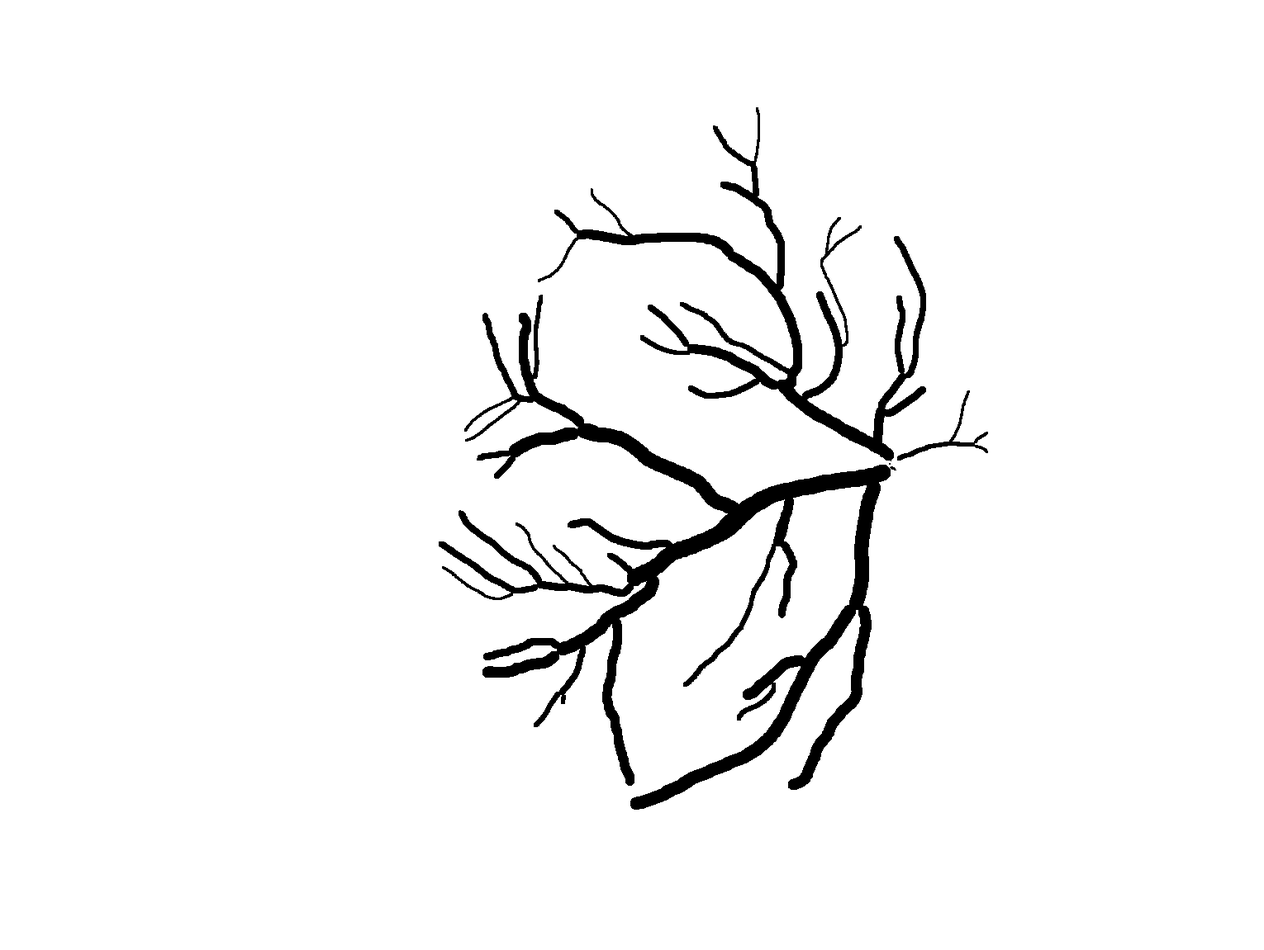
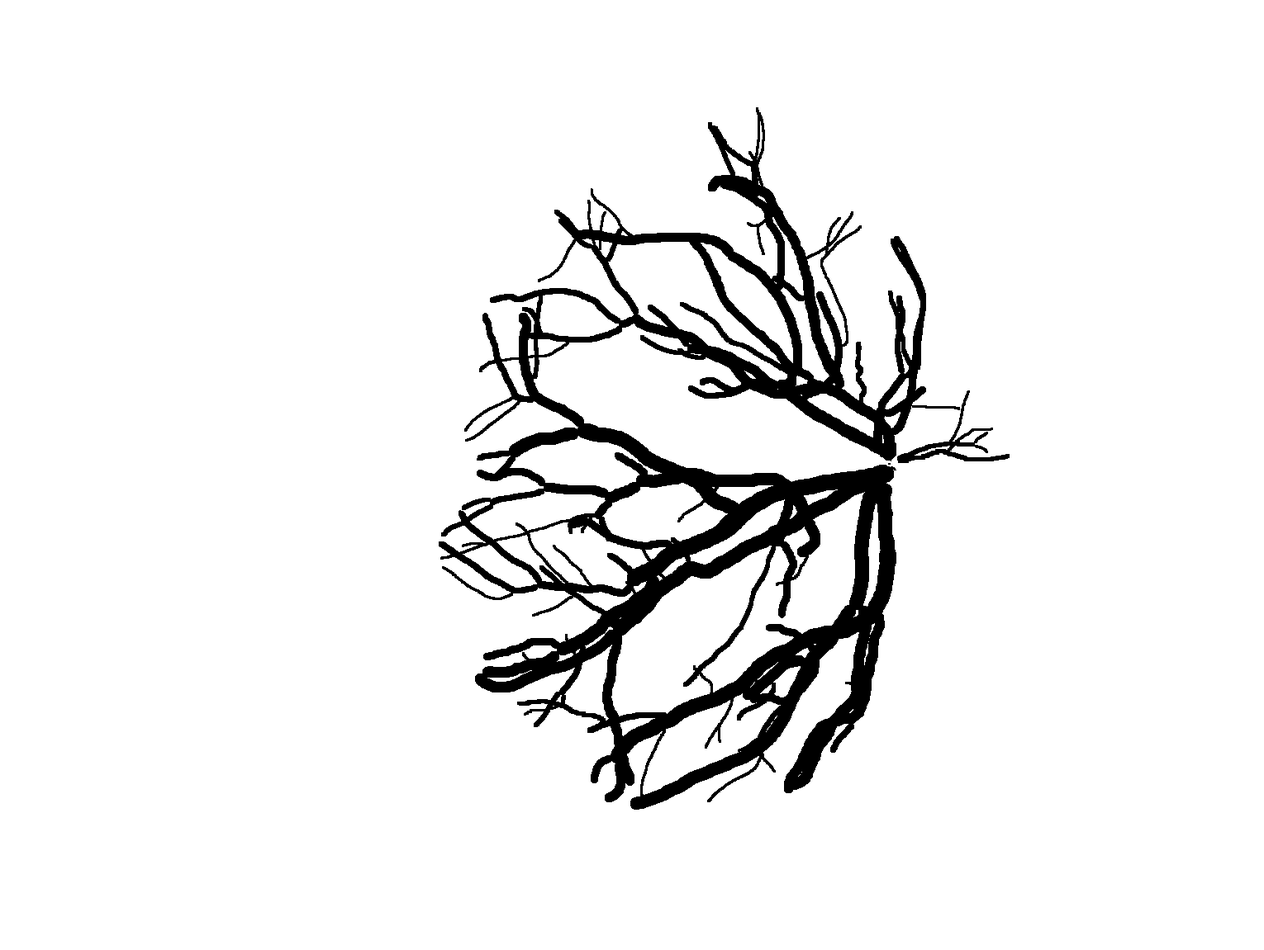
fixed trace for a sample and reran net completion demo

diff --git a/output/network_completion_3.html b/output/network_completion_3.html
@@ -5,7 +5,7 @@
 p, li { white-space: pre-wrap; }
 </style></head><body style=" font-family:'Monospace'; font-size:9pt; font-weight:400; font-style:normal;">
 <p style="-qt-paragraph-type:empty; margin-top:0px; margin-bottom:0px; margin-left:0px; margin-right:0px; -qt-block-indent:0; text-indent:0px;"><br /></p>
-<p style=" margin-top:0px; margin-bottom:0px; margin-left:0px; margin-right:0px; -qt-block-indent:0; text-indent:0px;"><span style=" color:#000080;">In [</span><span style=" font-weight:600; color:#000080;">13</span><span style=" color:#000080;">]:</span> run network_completion.py</p>
+<p style=" margin-top:0px; margin-bottom:0px; margin-left:0px; margin-right:0px; -qt-block-indent:0; text-indent:0px;"><span style=" color:#000080;">In [</span><span style=" font-weight:600; color:#000080;">25</span><span style=" color:#000080;">]:</span> run network_completion.py</p>
 <p style=" margin-top:0px; margin-bottom:0px; margin-left:0px; margin-right:0px; -qt-block-indent:0; text-indent:0px;">/usr/lib/python3.7/site-packages/numpy/core/fromnumeric.py:2920: RuntimeWarning: Mean of empty slice.</p>
 <p style=" margin-top:0px; margin-bottom:0px; margin-left:0px; margin-right:0px; -qt-block-indent:0; text-indent:0px;">  out=out, **kwargs)</p>
 <p style=" margin-top:0px; margin-bottom:0px; margin-left:0px; margin-right:0px; -qt-block-indent:0; text-indent:0px;">/usr/lib/python3.7/site-packages/numpy/core/_methods.py:85: RuntimeWarning: invalid value encountered in double_scalars</p>
@@ -15,156 +15,156 @@ p, li { white-space: pre-wrap; }
 <p style=" margin-top:0px; margin-bottom:0px; margin-left:0px; margin-right:0px; -qt-block-indent:0; text-indent:0px;">removed 1.07096e+06 pairs of endpoints from consideration (out of 1.10930e+06 possible pairs)</p>
 <p style=" margin-top:0px; margin-bottom:0px; margin-left:0px; margin-right:0px; -qt-block-indent:0; text-indent:0px;">removed 36846 more pairs by avoiding crossings/zero score paths</p>
 <p style="-qt-paragraph-type:empty; margin-top:0px; margin-bottom:0px; margin-left:0px; margin-right:0px; -qt-block-indent:0; text-indent:0px;"><br /></p>
-<p style=" margin-top:0px; margin-bottom:0px; margin-left:0px; margin-right:0px; -qt-block-indent:0; text-indent:0px;"><img src="network_completion_3_files/qt_img4730575764062213.png"></p>
+<p style=" margin-top:0px; margin-bottom:0px; margin-left:0px; margin-right:0px; -qt-block-indent:0; text-indent:0px;"><img src="network_completion_3_files/qt_img6106949573672965.png"></p>
 <p style=" margin-top:0px; margin-bottom:0px; margin-left:0px; margin-right:0px; -qt-block-indent:0; text-indent:0px;">there are 1362 endpoints</p>
 <p style=" margin-top:0px; margin-bottom:0px; margin-left:0px; margin-right:0px; -qt-block-indent:0; text-indent:0px;">checking compatibility of endpoints by labels and calculating distances</p>
 <p style=" margin-top:0px; margin-bottom:0px; margin-left:0px; margin-right:0px; -qt-block-indent:0; text-indent:0px;">removed 888401 pairs of endpoints from consideration (out of 926841 possible pairs)</p>
 <p style=" margin-top:0px; margin-bottom:0px; margin-left:0px; margin-right:0px; -qt-block-indent:0; text-indent:0px;">removed 36975 more pairs by avoiding crossings/zero score paths</p>
 <p style="-qt-paragraph-type:empty; margin-top:0px; margin-bottom:0px; margin-left:0px; margin-right:0px; -qt-block-indent:0; text-indent:0px;"><br /></p>
-<p style=" margin-top:0px; margin-bottom:0px; margin-left:0px; margin-right:0px; -qt-block-indent:0; text-indent:0px;"><img src="network_completion_3_files/qt_img4732937996075013.png"></p>
+<p style=" margin-top:0px; margin-bottom:0px; margin-left:0px; margin-right:0px; -qt-block-indent:0; text-indent:0px;"><img src="network_completion_3_files/qt_img6109350460391429.png"></p>
 <p style=" margin-top:0px; margin-bottom:0px; margin-left:0px; margin-right:0px; -qt-block-indent:0; text-indent:0px;">there are 811 endpoints</p>
 <p style=" margin-top:0px; margin-bottom:0px; margin-left:0px; margin-right:0px; -qt-block-indent:0; text-indent:0px;">checking compatibility of endpoints by labels and calculating distances</p>
 <p style=" margin-top:0px; margin-bottom:0px; margin-left:0px; margin-right:0px; -qt-block-indent:0; text-indent:0px;">removed 310753 pairs of endpoints from consideration (out of 328455 possible pairs)</p>
 <p style=" margin-top:0px; margin-bottom:0px; margin-left:0px; margin-right:0px; -qt-block-indent:0; text-indent:0px;">removed 16886 more pairs by avoiding crossings/zero score paths</p>
 <p style="-qt-paragraph-type:empty; margin-top:0px; margin-bottom:0px; margin-left:0px; margin-right:0px; -qt-block-indent:0; text-indent:0px;"><br /></p>
-<p style=" margin-top:0px; margin-bottom:0px; margin-left:0px; margin-right:0px; -qt-block-indent:0; text-indent:0px;"><img src="network_completion_3_files/qt_img4738521453559813.png"></p>
+<p style=" margin-top:0px; margin-bottom:0px; margin-left:0px; margin-right:0px; -qt-block-indent:0; text-indent:0px;"><img src="network_completion_3_files/qt_img6120010569220101.png"></p>
 <p style=" margin-top:0px; margin-bottom:0px; margin-left:0px; margin-right:0px; -qt-block-indent:0; text-indent:0px;">there are 75 endpoints</p>
 <p style=" margin-top:0px; margin-bottom:0px; margin-left:0px; margin-right:0px; -qt-block-indent:0; text-indent:0px;">checking compatibility of endpoints by labels and calculating distances</p>
 <p style=" margin-top:0px; margin-bottom:0px; margin-left:0px; margin-right:0px; -qt-block-indent:0; text-indent:0px;">removed 1905 pairs of endpoints from consideration (out of 2775 possible pairs)</p>
 <p style=" margin-top:0px; margin-bottom:0px; margin-left:0px; margin-right:0px; -qt-block-indent:0; text-indent:0px;">removed 808 more pairs by avoiding crossings/zero score paths</p>
 <p style="-qt-paragraph-type:empty; margin-top:0px; margin-bottom:0px; margin-left:0px; margin-right:0px; -qt-block-indent:0; text-indent:0px;"><br /></p>
-<p style=" margin-top:0px; margin-bottom:0px; margin-left:0px; margin-right:0px; -qt-block-indent:0; text-indent:0px;"><img src="network_completion_3_files/qt_img4739848598454277.png"></p>
+<p style=" margin-top:0px; margin-bottom:0px; margin-left:0px; margin-right:0px; -qt-block-indent:0; text-indent:0px;"><img src="network_completion_3_files/qt_img6140136785969157.png"></p>
 <p style=" margin-top:0px; margin-bottom:0px; margin-left:0px; margin-right:0px; -qt-block-indent:0; text-indent:0px;">there are 1007 endpoints</p>
 <p style=" margin-top:0px; margin-bottom:0px; margin-left:0px; margin-right:0px; -qt-block-indent:0; text-indent:0px;">checking compatibility of endpoints by labels and calculating distances</p>
 <p style=" margin-top:0px; margin-bottom:0px; margin-left:0px; margin-right:0px; -qt-block-indent:0; text-indent:0px;">removed 476316 pairs of endpoints from consideration (out of 506521 possible pairs)</p>
 <p style=" margin-top:0px; margin-bottom:0px; margin-left:0px; margin-right:0px; -qt-block-indent:0; text-indent:0px;">removed 29074 more pairs by avoiding crossings/zero score paths</p>
 <p style="-qt-paragraph-type:empty; margin-top:0px; margin-bottom:0px; margin-left:0px; margin-right:0px; -qt-block-indent:0; text-indent:0px;"><br /></p>
-<p style=" margin-top:0px; margin-bottom:0px; margin-left:0px; margin-right:0px; -qt-block-indent:0; text-indent:0px;"><img src="network_completion_3_files/qt_img4745105638424581.png"></p>
+<p style=" margin-top:0px; margin-bottom:0px; margin-left:0px; margin-right:0px; -qt-block-indent:0; text-indent:0px;"><img src="network_completion_3_files/qt_img6166791353008133.png"></p>
 <p style=" margin-top:0px; margin-bottom:0px; margin-left:0px; margin-right:0px; -qt-block-indent:0; text-indent:0px;">there are 745 endpoints</p>
 <p style=" margin-top:0px; margin-bottom:0px; margin-left:0px; margin-right:0px; -qt-block-indent:0; text-indent:0px;">checking compatibility of endpoints by labels and calculating distances</p>
 <p style=" margin-top:0px; margin-bottom:0px; margin-left:0px; margin-right:0px; -qt-block-indent:0; text-indent:0px;">removed 265783 pairs of endpoints from consideration (out of 277140 possible pairs)</p>
 <p style=" margin-top:0px; margin-bottom:0px; margin-left:0px; margin-right:0px; -qt-block-indent:0; text-indent:0px;">removed 10670 more pairs by avoiding crossings/zero score paths</p>
 <p style="-qt-paragraph-type:empty; margin-top:0px; margin-bottom:0px; margin-left:0px; margin-right:0px; -qt-block-indent:0; text-indent:0px;"><br /></p>
-<p style=" margin-top:0px; margin-bottom:0px; margin-left:0px; margin-right:0px; -qt-block-indent:0; text-indent:0px;"><img src="network_completion_3_files/qt_img4781904918216709.png"></p>
+<p style=" margin-top:0px; margin-bottom:0px; margin-left:0px; margin-right:0px; -qt-block-indent:0; text-indent:0px;"><img src="network_completion_3_files/qt_img6177760699482117.png"></p>
 <p style=" margin-top:0px; margin-bottom:0px; margin-left:0px; margin-right:0px; -qt-block-indent:0; text-indent:0px;">there are 2171 endpoints</p>
 <p style=" margin-top:0px; margin-bottom:0px; margin-left:0px; margin-right:0px; -qt-block-indent:0; text-indent:0px;">checking compatibility of endpoints by labels and calculating distances</p>
 <p style=" margin-top:0px; margin-bottom:0px; margin-left:0px; margin-right:0px; -qt-block-indent:0; text-indent:0px;">removed 2.28355e+06 pairs of endpoints from consideration (out of 2.35554e+06 possible pairs)</p>
 <p style=" margin-top:0px; margin-bottom:0px; margin-left:0px; margin-right:0px; -qt-block-indent:0; text-indent:0px;">removed 69235 more pairs by avoiding crossings/zero score paths</p>
 <p style="-qt-paragraph-type:empty; margin-top:0px; margin-bottom:0px; margin-left:0px; margin-right:0px; -qt-block-indent:0; text-indent:0px;"><br /></p>
-<p style=" margin-top:0px; margin-bottom:0px; margin-left:0px; margin-right:0px; -qt-block-indent:0; text-indent:0px;"><img src="network_completion_3_files/qt_img4842141834543109.png"></p>
+<p style=" margin-top:0px; margin-bottom:0px; margin-left:0px; margin-right:0px; -qt-block-indent:0; text-indent:0px;"><img src="network_completion_3_files/qt_img6183498775789573.png"></p>
 <p style=" margin-top:0px; margin-bottom:0px; margin-left:0px; margin-right:0px; -qt-block-indent:0; text-indent:0px;">there are 1700 endpoints</p>
 <p style=" margin-top:0px; margin-bottom:0px; margin-left:0px; margin-right:0px; -qt-block-indent:0; text-indent:0px;">checking compatibility of endpoints by labels and calculating distances</p>
 <p style=" margin-top:0px; margin-bottom:0px; margin-left:0px; margin-right:0px; -qt-block-indent:0; text-indent:0px;">removed 1.39528e+06 pairs of endpoints from consideration (out of 1.44415e+06 possible pairs)</p>
 <p style=" margin-top:0px; margin-bottom:0px; margin-left:0px; margin-right:0px; -qt-block-indent:0; text-indent:0px;">removed 47003 more pairs by avoiding crossings/zero score paths</p>
 <p style="-qt-paragraph-type:empty; margin-top:0px; margin-bottom:0px; margin-left:0px; margin-right:0px; -qt-block-indent:0; text-indent:0px;"><br /></p>
-<p style=" margin-top:0px; margin-bottom:0px; margin-left:0px; margin-right:0px; -qt-block-indent:0; text-indent:0px;"><img src="network_completion_3_files/qt_img4862379720441861.png"></p>
+<p style=" margin-top:0px; margin-bottom:0px; margin-left:0px; margin-right:0px; -qt-block-indent:0; text-indent:0px;"><img src="network_completion_3_files/qt_img6189155247718405.png"></p>
 <p style=" margin-top:0px; margin-bottom:0px; margin-left:0px; margin-right:0px; -qt-block-indent:0; text-indent:0px;">there are 651 endpoints</p>
 <p style=" margin-top:0px; margin-bottom:0px; margin-left:0px; margin-right:0px; -qt-block-indent:0; text-indent:0px;">checking compatibility of endpoints by labels and calculating distances</p>
 <p style=" margin-top:0px; margin-bottom:0px; margin-left:0px; margin-right:0px; -qt-block-indent:0; text-indent:0px;">removed 195110 pairs of endpoints from consideration (out of 211575 possible pairs)</p>
 <p style=" margin-top:0px; margin-bottom:0px; margin-left:0px; margin-right:0px; -qt-block-indent:0; text-indent:0px;">removed 15811 more pairs by avoiding crossings/zero score paths</p>
 <p style="-qt-paragraph-type:empty; margin-top:0px; margin-bottom:0px; margin-left:0px; margin-right:0px; -qt-block-indent:0; text-indent:0px;"><br /></p>
-<p style=" margin-top:0px; margin-bottom:0px; margin-left:0px; margin-right:0px; -qt-block-indent:0; text-indent:0px;"><img src="network_completion_3_files/qt_img4868092026945541.png"></p>
+<p style=" margin-top:0px; margin-bottom:0px; margin-left:0px; margin-right:0px; -qt-block-indent:0; text-indent:0px;"><img src="network_completion_3_files/qt_img6194657100824581.png"></p>
 <p style=" margin-top:0px; margin-bottom:0px; margin-left:0px; margin-right:0px; -qt-block-indent:0; text-indent:0px;">there are 914 endpoints</p>
 <p style=" margin-top:0px; margin-bottom:0px; margin-left:0px; margin-right:0px; -qt-block-indent:0; text-indent:0px;">checking compatibility of endpoints by labels and calculating distances</p>
 <p style=" margin-top:0px; margin-bottom:0px; margin-left:0px; margin-right:0px; -qt-block-indent:0; text-indent:0px;">removed 393597 pairs of endpoints from consideration (out of 417241 possible pairs)</p>
 <p style=" margin-top:0px; margin-bottom:0px; margin-left:0px; margin-right:0px; -qt-block-indent:0; text-indent:0px;">removed 22701 more pairs by avoiding crossings/zero score paths</p>
 <p style="-qt-paragraph-type:empty; margin-top:0px; margin-bottom:0px; margin-left:0px; margin-right:0px; -qt-block-indent:0; text-indent:0px;"><br /></p>
-<p style=" margin-top:0px; margin-bottom:0px; margin-left:0px; margin-right:0px; -qt-block-indent:0; text-indent:0px;"><img src="network_completion_3_files/qt_img4873439261229061.png"></p>
+<p style=" margin-top:0px; margin-bottom:0px; margin-left:0px; margin-right:0px; -qt-block-indent:0; text-indent:0px;"><img src="network_completion_3_files/qt_img6200017220009989.png"></p>
 <p style=" margin-top:0px; margin-bottom:0px; margin-left:0px; margin-right:0px; -qt-block-indent:0; text-indent:0px;">there are 1358 endpoints</p>
 <p style=" margin-top:0px; margin-bottom:0px; margin-left:0px; margin-right:0px; -qt-block-indent:0; text-indent:0px;">checking compatibility of endpoints by labels and calculating distances</p>
 <p style=" margin-top:0px; margin-bottom:0px; margin-left:0px; margin-right:0px; -qt-block-indent:0; text-indent:0px;">removed 867590 pairs of endpoints from consideration (out of 921403 possible pairs)</p>
 <p style=" margin-top:0px; margin-bottom:0px; margin-left:0px; margin-right:0px; -qt-block-indent:0; text-indent:0px;">removed 51710 more pairs by avoiding crossings/zero score paths</p>
 <p style="-qt-paragraph-type:empty; margin-top:0px; margin-bottom:0px; margin-left:0px; margin-right:0px; -qt-block-indent:0; text-indent:0px;"><br /></p>
-<p style=" margin-top:0px; margin-bottom:0px; margin-left:0px; margin-right:0px; -qt-block-indent:0; text-indent:0px;"><img src="network_completion_3_files/qt_img4878799380414469.png"></p>
+<p style=" margin-top:0px; margin-bottom:0px; margin-left:0px; margin-right:0px; -qt-block-indent:0; text-indent:0px;"><img src="network_completion_3_files/qt_img6219877148786693.png"></p>
 <p style=" margin-top:0px; margin-bottom:0px; margin-left:0px; margin-right:0px; -qt-block-indent:0; text-indent:0px;">there are 1482 endpoints</p>
 <p style=" margin-top:0px; margin-bottom:0px; margin-left:0px; margin-right:0px; -qt-block-indent:0; text-indent:0px;">checking compatibility of endpoints by labels and calculating distances</p>
 <p style=" margin-top:0px; margin-bottom:0px; margin-left:0px; margin-right:0px; -qt-block-indent:0; text-indent:0px;">removed 1.05309e+06 pairs of endpoints from consideration (out of 1.09742e+06 possible pairs)</p>
 <p style=" margin-top:0px; margin-bottom:0px; margin-left:0px; margin-right:0px; -qt-block-indent:0; text-indent:0px;">removed 42606 more pairs by avoiding crossings/zero score paths</p>
 <p style="-qt-paragraph-type:empty; margin-top:0px; margin-bottom:0px; margin-left:0px; margin-right:0px; -qt-block-indent:0; text-indent:0px;"><br /></p>
-<p style=" margin-top:0px; margin-bottom:0px; margin-left:0px; margin-right:0px; -qt-block-indent:0; text-indent:0px;"><img src="network_completion_3_files/qt_img4884301233520645.png"></p>
+<p style=" margin-top:0px; margin-bottom:0px; margin-left:0px; margin-right:0px; -qt-block-indent:0; text-indent:0px;"><img src="network_completion_3_files/qt_img6225640994897925.png"></p>
 <p style=" margin-top:0px; margin-bottom:0px; margin-left:0px; margin-right:0px; -qt-block-indent:0; text-indent:0px;">there are 1248 endpoints</p>
 <p style=" margin-top:0px; margin-bottom:0px; margin-left:0px; margin-right:0px; -qt-block-indent:0; text-indent:0px;">checking compatibility of endpoints by labels and calculating distances</p>
 <p style=" margin-top:0px; margin-bottom:0px; margin-left:0px; margin-right:0px; -qt-block-indent:0; text-indent:0px;">removed 734250 pairs of endpoints from consideration (out of 778128 possible pairs)</p>
 <p style=" margin-top:0px; margin-bottom:0px; margin-left:0px; margin-right:0px; -qt-block-indent:0; text-indent:0px;">removed 42489 more pairs by avoiding crossings/zero score paths</p>
 <p style="-qt-paragraph-type:empty; margin-top:0px; margin-bottom:0px; margin-left:0px; margin-right:0px; -qt-block-indent:0; text-indent:0px;"><br /></p>
-<p style=" margin-top:0px; margin-bottom:0px; margin-left:0px; margin-right:0px; -qt-block-indent:0; text-indent:0px;"><img src="network_completion_3_files/qt_img4900592044474373.png"></p>
+<p style=" margin-top:0px; margin-bottom:0px; margin-left:0px; margin-right:0px; -qt-block-indent:0; text-indent:0px;"><img src="network_completion_3_files/qt_img6231207272513541.png"></p>
 <p style=" margin-top:0px; margin-bottom:0px; margin-left:0px; margin-right:0px; -qt-block-indent:0; text-indent:0px;">there are 1140 endpoints</p>
 <p style=" margin-top:0px; margin-bottom:0px; margin-left:0px; margin-right:0px; -qt-block-indent:0; text-indent:0px;">checking compatibility of endpoints by labels and calculating distances</p>
 <p style=" margin-top:0px; margin-bottom:0px; margin-left:0px; margin-right:0px; -qt-block-indent:0; text-indent:0px;">removed 612399 pairs of endpoints from consideration (out of 649230 possible pairs)</p>
 <p style=" margin-top:0px; margin-bottom:0px; margin-left:0px; margin-right:0px; -qt-block-indent:0; text-indent:0px;">removed 35528 more pairs by avoiding crossings/zero score paths</p>
 <p style="-qt-paragraph-type:empty; margin-top:0px; margin-bottom:0px; margin-left:0px; margin-right:0px; -qt-block-indent:0; text-indent:0px;"><br /></p>
-<p style=" margin-top:0px; margin-bottom:0px; margin-left:0px; margin-right:0px; -qt-block-indent:0; text-indent:0px;"><img src="network_completion_3_files/qt_img5023020087246853.png"></p>
+<p style=" margin-top:0px; margin-bottom:0px; margin-left:0px; margin-right:0px; -qt-block-indent:0; text-indent:0px;"><img src="network_completion_3_files/qt_img6236593161502725.png"></p>
 <p style=" margin-top:0px; margin-bottom:0px; margin-left:0px; margin-right:0px; -qt-block-indent:0; text-indent:0px;">there are 1142 endpoints</p>
 <p style=" margin-top:0px; margin-bottom:0px; margin-left:0px; margin-right:0px; -qt-block-indent:0; text-indent:0px;">checking compatibility of endpoints by labels and calculating distances</p>
 <p style=" margin-top:0px; margin-bottom:0px; margin-left:0px; margin-right:0px; -qt-block-indent:0; text-indent:0px;">removed 614688 pairs of endpoints from consideration (out of 651511 possible pairs)</p>
 <p style=" margin-top:0px; margin-bottom:0px; margin-left:0px; margin-right:0px; -qt-block-indent:0; text-indent:0px;">removed 35453 more pairs by avoiding crossings/zero score paths</p>
 <p style="-qt-paragraph-type:empty; margin-top:0px; margin-bottom:0px; margin-left:0px; margin-right:0px; -qt-block-indent:0; text-indent:0px;"><br /></p>
-<p style=" margin-top:0px; margin-bottom:0px; margin-left:0px; margin-right:0px; -qt-block-indent:0; text-indent:0px;"><img src="network_completion_3_files/qt_img5126979770646533.png"></p>
+<p style=" margin-top:0px; margin-bottom:0px; margin-left:0px; margin-right:0px; -qt-block-indent:0; text-indent:0px;"><img src="network_completion_3_files/qt_img6241979050491909.png"></p>
 <p style=" margin-top:0px; margin-bottom:0px; margin-left:0px; margin-right:0px; -qt-block-indent:0; text-indent:0px;">there are 2016 endpoints</p>
 <p style=" margin-top:0px; margin-bottom:0px; margin-left:0px; margin-right:0px; -qt-block-indent:0; text-indent:0px;">checking compatibility of endpoints by labels and calculating distances</p>
 <p style=" margin-top:0px; margin-bottom:0px; margin-left:0px; margin-right:0px; -qt-block-indent:0; text-indent:0px;">removed 1.95184e+06 pairs of endpoints from consideration (out of 2.03112e+06 possible pairs)</p>
 <p style=" margin-top:0px; margin-bottom:0px; margin-left:0px; margin-right:0px; -qt-block-indent:0; text-indent:0px;">removed 76670 more pairs by avoiding crossings/zero score paths</p>
 <p style="-qt-paragraph-type:empty; margin-top:0px; margin-bottom:0px; margin-left:0px; margin-right:0px; -qt-block-indent:0; text-indent:0px;"><br /></p>
-<p style=" margin-top:0px; margin-bottom:0px; margin-left:0px; margin-right:0px; -qt-block-indent:0; text-indent:0px;"><img src="network_completion_3_files/qt_img5145349345771525.png"></p>
+<p style=" margin-top:0px; margin-bottom:0px; margin-left:0px; margin-right:0px; -qt-block-indent:0; text-indent:0px;"><img src="network_completion_3_files/qt_img6247493788499973.png"></p>
 <p style=" margin-top:0px; margin-bottom:0px; margin-left:0px; margin-right:0px; -qt-block-indent:0; text-indent:0px;">there are 1133 endpoints</p>
 <p style=" margin-top:0px; margin-bottom:0px; margin-left:0px; margin-right:0px; -qt-block-indent:0; text-indent:0px;">checking compatibility of endpoints by labels and calculating distances</p>
 <p style=" margin-top:0px; margin-bottom:0px; margin-left:0px; margin-right:0px; -qt-block-indent:0; text-indent:0px;">removed 613387 pairs of endpoints from consideration (out of 641278 possible pairs)</p>
 <p style=" margin-top:0px; margin-bottom:0px; margin-left:0px; margin-right:0px; -qt-block-indent:0; text-indent:0px;">removed 26836 more pairs by avoiding crossings/zero score paths</p>
 <p style="-qt-paragraph-type:empty; margin-top:0px; margin-bottom:0px; margin-left:0px; margin-right:0px; -qt-block-indent:0; text-indent:0px;"><br /></p>
-<p style=" margin-top:0px; margin-bottom:0px; margin-left:0px; margin-right:0px; -qt-block-indent:0; text-indent:0px;"><img src="network_completion_3_files/qt_img5151087422078981.png"></p>
+<p style=" margin-top:0px; margin-bottom:0px; margin-left:0px; margin-right:0px; -qt-block-indent:0; text-indent:0px;"><img src="network_completion_3_files/qt_img6253008526508037.png"></p>
 <p style=" margin-top:0px; margin-bottom:0px; margin-left:0px; margin-right:0px; -qt-block-indent:0; text-indent:0px;">there are 2462 endpoints</p>
 <p style=" margin-top:0px; margin-bottom:0px; margin-left:0px; margin-right:0px; -qt-block-indent:0; text-indent:0px;">checking compatibility of endpoints by labels and calculating distances</p>
 <p style=" margin-top:0px; margin-bottom:0px; margin-left:0px; margin-right:0px; -qt-block-indent:0; text-indent:0px;">removed 2.91856e+06 pairs of endpoints from consideration (out of 3.02949e+06 possible pairs)</p>
 <p style=" margin-top:0px; margin-bottom:0px; margin-left:0px; margin-right:0px; -qt-block-indent:0; text-indent:0px;">removed 107616 more pairs by avoiding crossings/zero score paths</p>
 <p style="-qt-paragraph-type:empty; margin-top:0px; margin-bottom:0px; margin-left:0px; margin-right:0px; -qt-block-indent:0; text-indent:0px;"><br /></p>
-<p style=" margin-top:0px; margin-bottom:0px; margin-left:0px; margin-right:0px; -qt-block-indent:0; text-indent:0px;"><img src="network_completion_3_files/qt_img5156593570152453.png"></p>
+<p style=" margin-top:0px; margin-bottom:0px; margin-left:0px; margin-right:0px; -qt-block-indent:0; text-indent:0px;"><img src="network_completion_3_files/qt_img6258540444385285.png"></p>
 <p style=" margin-top:0px; margin-bottom:0px; margin-left:0px; margin-right:0px; -qt-block-indent:0; text-indent:0px;">there are 838 endpoints</p>
 <p style=" margin-top:0px; margin-bottom:0px; margin-left:0px; margin-right:0px; -qt-block-indent:0; text-indent:0px;">checking compatibility of endpoints by labels and calculating distances</p>
 <p style=" margin-top:0px; margin-bottom:0px; margin-left:0px; margin-right:0px; -qt-block-indent:0; text-indent:0px;">removed 317105 pairs of endpoints from consideration (out of 350703 possible pairs)</p>
 <p style=" margin-top:0px; margin-bottom:0px; margin-left:0px; margin-right:0px; -qt-block-indent:0; text-indent:0px;">removed 32635 more pairs by avoiding crossings/zero score paths</p>
 <p style="-qt-paragraph-type:empty; margin-top:0px; margin-bottom:0px; margin-left:0px; margin-right:0px; -qt-block-indent:0; text-indent:0px;"><br /></p>
-<p style=" margin-top:0px; margin-bottom:0px; margin-left:0px; margin-right:0px; -qt-block-indent:0; text-indent:0px;"><img src="network_completion_3_files/qt_img5162082538356741.png"></p>
+<p style=" margin-top:0px; margin-bottom:0px; margin-left:0px; margin-right:0px; -qt-block-indent:0; text-indent:0px;"><img src="network_completion_3_files/qt_img6264042297491461.png"></p>
 <p style=" margin-top:0px; margin-bottom:0px; margin-left:0px; margin-right:0px; -qt-block-indent:0; text-indent:0px;">there are 536 endpoints</p>
 <p style=" margin-top:0px; margin-bottom:0px; margin-left:0px; margin-right:0px; -qt-block-indent:0; text-indent:0px;">checking compatibility of endpoints by labels and calculating distances</p>
 <p style=" margin-top:0px; margin-bottom:0px; margin-left:0px; margin-right:0px; -qt-block-indent:0; text-indent:0px;">removed 134346 pairs of endpoints from consideration (out of 143380 possible pairs)</p>
 <p style=" margin-top:0px; margin-bottom:0px; margin-left:0px; margin-right:0px; -qt-block-indent:0; text-indent:0px;">removed 8504 more pairs by avoiding crossings/zero score paths</p>
 <p style="-qt-paragraph-type:empty; margin-top:0px; margin-bottom:0px; margin-left:0px; margin-right:0px; -qt-block-indent:0; text-indent:0px;"><br /></p>
-<p style=" margin-top:0px; margin-bottom:0px; margin-left:0px; margin-right:0px; -qt-block-indent:0; text-indent:0px;"><img src="network_completion_3_files/qt_img5180598142369797.png"></p>
+<p style=" margin-top:0px; margin-bottom:0px; margin-left:0px; margin-right:0px; -qt-block-indent:0; text-indent:0px;"><img src="network_completion_3_files/qt_img6269398121709573.png"></p>
 <p style=" margin-top:0px; margin-bottom:0px; margin-left:0px; margin-right:0px; -qt-block-indent:0; text-indent:0px;">there are 495 endpoints</p>
 <p style=" margin-top:0px; margin-bottom:0px; margin-left:0px; margin-right:0px; -qt-block-indent:0; text-indent:0px;">checking compatibility of endpoints by labels and calculating distances</p>
 <p style=" margin-top:0px; margin-bottom:0px; margin-left:0px; margin-right:0px; -qt-block-indent:0; text-indent:0px;">removed 116035 pairs of endpoints from consideration (out of 122265 possible pairs)</p>
 <p style=" margin-top:0px; margin-bottom:0px; margin-left:0px; margin-right:0px; -qt-block-indent:0; text-indent:0px;">removed 5811 more pairs by avoiding crossings/zero score paths</p>
 <p style="-qt-paragraph-type:empty; margin-top:0px; margin-bottom:0px; margin-left:0px; margin-right:0px; -qt-block-indent:0; text-indent:0px;"><br /></p>
-<p style=" margin-top:0px; margin-bottom:0px; margin-left:0px; margin-right:0px; -qt-block-indent:0; text-indent:0px;"><img src="network_completion_3_files/qt_img5199191055794181.png"></p>
+<p style=" margin-top:0px; margin-bottom:0px; margin-left:0px; margin-right:0px; -qt-block-indent:0; text-indent:0px;"><img src="network_completion_3_files/qt_img6272881340186629.png"></p>
 <p style=" margin-top:0px; margin-bottom:0px; margin-left:0px; margin-right:0px; -qt-block-indent:0; text-indent:0px;">there are 2403 endpoints</p>
 <p style=" margin-top:0px; margin-bottom:0px; margin-left:0px; margin-right:0px; -qt-block-indent:0; text-indent:0px;">checking compatibility of endpoints by labels and calculating distances</p>
 <p style=" margin-top:0px; margin-bottom:0px; margin-left:0px; margin-right:0px; -qt-block-indent:0; text-indent:0px;">removed 2.79796e+06 pairs of endpoints from consideration (out of 2.886e+06 possible pairs)</p>
 <p style=" margin-top:0px; margin-bottom:0px; margin-left:0px; margin-right:0px; -qt-block-indent:0; text-indent:0px;">removed 84964 more pairs by avoiding crossings/zero score paths</p>
 <p style="-qt-paragraph-type:empty; margin-top:0px; margin-bottom:0px; margin-left:0px; margin-right:0px; -qt-block-indent:0; text-indent:0px;"><br /></p>
-<p style=" margin-top:0px; margin-bottom:0px; margin-left:0px; margin-right:0px; -qt-block-indent:0; text-indent:0px;"><img src="network_completion_3_files/qt_img5204873297526789.png"></p>
+<p style=" margin-top:0px; margin-bottom:0px; margin-left:0px; margin-right:0px; -qt-block-indent:0; text-indent:0px;"><img src="network_completion_3_files/qt_img6278357423489029.png"></p>
 <p style=" margin-top:0px; margin-bottom:0px; margin-left:0px; margin-right:0px; -qt-block-indent:0; text-indent:0px;">there are 456 endpoints</p>
 <p style=" margin-top:0px; margin-bottom:0px; margin-left:0px; margin-right:0px; -qt-block-indent:0; text-indent:0px;">checking compatibility of endpoints by labels and calculating distances</p>
 <p style=" margin-top:0px; margin-bottom:0px; margin-left:0px; margin-right:0px; -qt-block-indent:0; text-indent:0px;">removed 98706 pairs of endpoints from consideration (out of 103740 possible pairs)</p>
 <p style=" margin-top:0px; margin-bottom:0px; margin-left:0px; margin-right:0px; -qt-block-indent:0; text-indent:0px;">removed 4662 more pairs by avoiding crossings/zero score paths</p>
 <p style="-qt-paragraph-type:empty; margin-top:0px; margin-bottom:0px; margin-left:0px; margin-right:0px; -qt-block-indent:0; text-indent:0px;"><br /></p>
-<p style=" margin-top:0px; margin-bottom:0px; margin-left:0px; margin-right:0px; -qt-block-indent:0; text-indent:0px;"><img src="network_completion_3_files/qt_img5208408055611397.png"></p>
+<p style=" margin-top:0px; margin-bottom:0px; margin-left:0px; margin-right:0px; -qt-block-indent:0; text-indent:0px;"><img src="network_completion_3_files/qt_img6281917951377413.png"></p>
 <p style=" margin-top:0px; margin-bottom:0px; margin-left:0px; margin-right:0px; -qt-block-indent:0; text-indent:0px;">there are 659 endpoints</p>
 <p style=" margin-top:0px; margin-bottom:0px; margin-left:0px; margin-right:0px; -qt-block-indent:0; text-indent:0px;">checking compatibility of endpoints by labels and calculating distances</p>
 <p style=" margin-top:0px; margin-bottom:0px; margin-left:0px; margin-right:0px; -qt-block-indent:0; text-indent:0px;">removed 202768 pairs of endpoints from consideration (out of 216811 possible pairs)</p>
 <p style=" margin-top:0px; margin-bottom:0px; margin-left:0px; margin-right:0px; -qt-block-indent:0; text-indent:0px;">removed 13315 more pairs by avoiding crossings/zero score paths</p>
 <p style="-qt-paragraph-type:empty; margin-top:0px; margin-bottom:0px; margin-left:0px; margin-right:0px; -qt-block-indent:0; text-indent:0px;"><br /></p>
-<p style=" margin-top:0px; margin-bottom:0px; margin-left:0px; margin-right:0px; -qt-block-indent:0; text-indent:0px;"><img src="network_completion_3_files/qt_img5213729520091141.png"></p>
+<p style=" margin-top:0px; margin-bottom:0px; margin-left:0px; margin-right:0px; -qt-block-indent:0; text-indent:0px;"><img src="network_completion_3_files/qt_img6287252300759045.png"></p>
 <p style=" margin-top:0px; margin-bottom:0px; margin-left:0px; margin-right:0px; -qt-block-indent:0; text-indent:0px;">there are 1281 endpoints</p>
 <p style=" margin-top:0px; margin-bottom:0px; margin-left:0px; margin-right:0px; -qt-block-indent:0; text-indent:0px;">checking compatibility of endpoints by labels and calculating distances</p>
 <p style=" margin-top:0px; margin-bottom:0px; margin-left:0px; margin-right:0px; -qt-block-indent:0; text-indent:0px;">removed 773249 pairs of endpoints from consideration (out of 819840 possible pairs)</p>
 <p style=" margin-top:0px; margin-bottom:0px; margin-left:0px; margin-right:0px; -qt-block-indent:0; text-indent:0px;">removed 44905 more pairs by avoiding crossings/zero score paths</p>
 <p style="-qt-paragraph-type:empty; margin-top:0px; margin-bottom:0px; margin-left:0px; margin-right:0px; -qt-block-indent:0; text-indent:0px;"><br /></p>
-<p style=" margin-top:0px; margin-bottom:0px; margin-left:0px; margin-right:0px; -qt-block-indent:0; text-indent:0px;"><img src="network_completion_3_files/qt_img5219076754374661.png"></p>
+<p style=" margin-top:0px; margin-bottom:0px; margin-left:0px; margin-right:0px; -qt-block-indent:0; text-indent:0px;"><img src="network_completion_3_files/qt_img6292625304846341.png"></p>
 <p style=" margin-top:0px; margin-bottom:0px; margin-left:0px; margin-right:0px; -qt-block-indent:0; text-indent:0px;">there are 1769 endpoints</p>
 <p style=" margin-top:0px; margin-bottom:0px; margin-left:0px; margin-right:0px; -qt-block-indent:0; text-indent:0px;">checking compatibility of endpoints by labels and calculating distances</p>
 <p style=" margin-top:0px; margin-bottom:0px; margin-left:0px; margin-right:0px; -qt-block-indent:0; text-indent:0px;">removed 1.49415e+06 pairs of endpoints from consideration (out of 1.5638e+06 possible pairs)</p>
 <p style=" margin-top:0px; margin-bottom:0px; margin-left:0px; margin-right:0px; -qt-block-indent:0; text-indent:0px;">removed 67362 more pairs by avoiding crossings/zero score paths</p>
 <p style="-qt-paragraph-type:empty; margin-top:0px; margin-bottom:0px; margin-left:0px; margin-right:0px; -qt-block-indent:0; text-indent:0px;"><br /></p>
-<p style=" margin-top:0px; margin-bottom:0px; margin-left:0px; margin-right:0px; -qt-block-indent:0; text-indent:0px;"><img src="network_completion_3_files/qt_img5224552837677061.png"></p>
+<p style=" margin-top:0px; margin-bottom:0px; margin-left:0px; margin-right:0px; -qt-block-indent:0; text-indent:0px;"><img src="network_completion_3_files/qt_img6298140042854405.png"></p>
 <p style="-qt-paragraph-type:empty; margin-top:0px; margin-bottom:0px; margin-left:0px; margin-right:0px; -qt-block-indent:0; text-indent:0px;"><br /></p>
-<p style=" margin-top:0px; margin-bottom:0px; margin-left:0px; margin-right:0px; -qt-block-indent:0; text-indent:0px;"><span style=" color:#000080;">In [</span><span style=" font-weight:600; color:#000080;">14</span><span style=" color:#000080;">]:</span> </p></body></html>
+<p style=" margin-top:0px; margin-bottom:0px; margin-left:0px; margin-right:0px; -qt-block-indent:0; text-indent:0px;"><span style=" color:#000080;">In [</span><span style=" font-weight:600; color:#000080;">26</span><span style=" color:#000080;">]:</span> </p></body></html>
